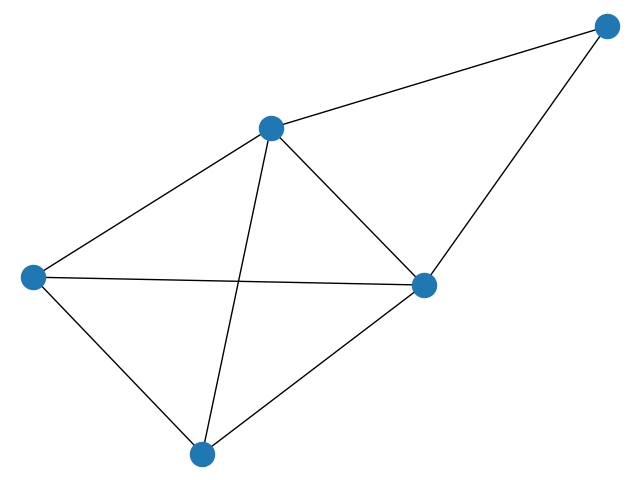
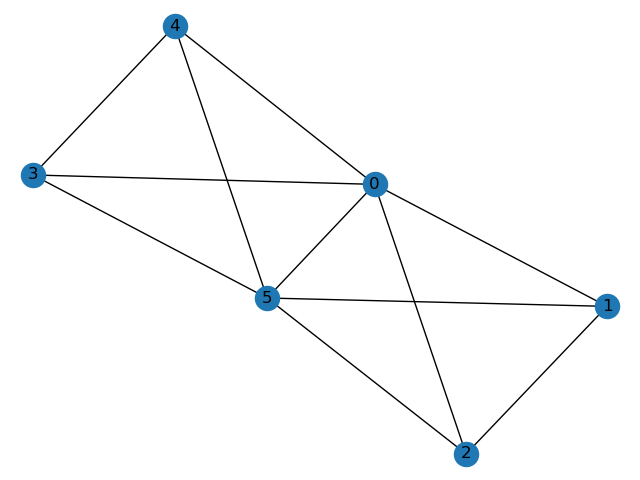
Added labels to graph drawing

diff --git a/code/main.py b/code/main.py
@@ -39,11 +39,11 @@ if __name__ == "__main__":
 
     # Call in random graph generator
     if num_vertices != None:
+        # Added in from networkx
         G=nx.Graph()
         G.add_nodes_from([x for x in range(0, num_vertices)])
 
         tic = time.time()
-        edges = 0
         graph = Graph(num_vertices)
         for i in range(0,num_vertices):
             n_iters = random.choice([x for x in range(0,num_vertices)])
@@ -52,12 +52,11 @@ if __name__ == "__main__":
                 j = list( set([ x for x in range(num_vertices) if x != i]) - set(used_vertices))
                 j = random.choice(j)
                 #print("Creating edge: G[%d][%d]" %  (i,j))
-                edges += 1
                 graph.add_edge(i,j)
                 G.add_edge(i,j)
                 used_vertices.append(j)
         toc = time.time()
-        print("Created Graph with %d nodes and %d edges in %.2f ms" % (num_vertices, edges, toc-tic))
+        print("Created Graph with %d nodes and %d edges in %.2f ms" % (num_vertices, len(G.edges), toc-tic))
         result = graph.color_matrix()
         # Available functions for visualizing matrixes
         #print("Analyzing graph:")
@@ -65,7 +64,7 @@ if __name__ == "__main__":
         #graph.print_colors_matrix()   
 
         if testing_flag:
-            nx.draw(G)
+            nx.draw(G, with_labels=True)
             plt.savefig("simple_path.png") # save as png
             plt.show() # display
 
